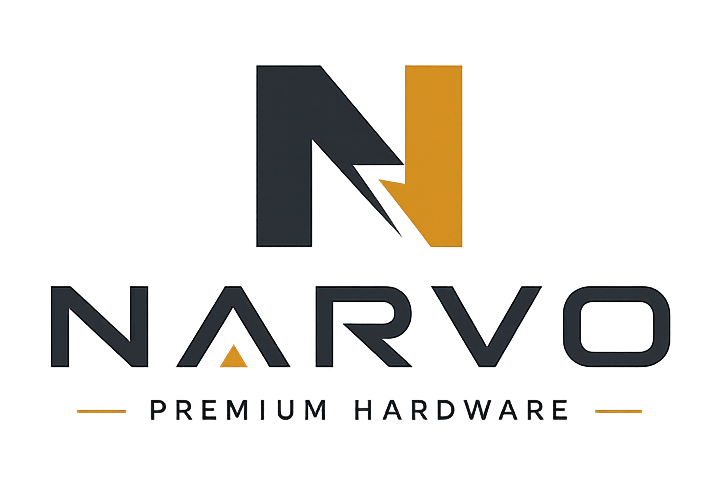
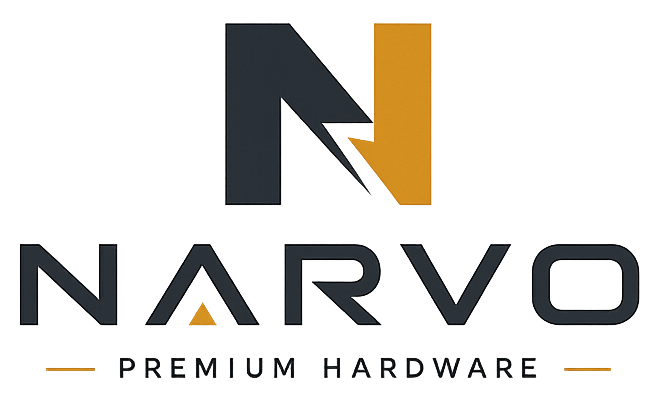
testing satrt

diff --git a/components/Navbar.tsx b/components/Navbar.tsx
@@ -55,7 +55,7 @@ export default function Navbar() {
   const handleSearchSubmit = (e: React.FormEvent) => {
     e.preventDefault();
     if (!searchQuery) return;
-    const match = searchableProducts.find(p => 
+    const match = searchableProducts.find(p =>
       p.name.toLowerCase().includes(searchQuery.toLowerCase())
     );
     if (match) {
@@ -75,14 +75,13 @@ export default function Navbar() {
         initial={{ y: -100, opacity: 0 }}
         animate={{ y: 0, opacity: 1 }}
         transition={{ duration: 0.8, ease: [0.16, 1, 0.3, 1] }}
-        className={`fixed top-0 left-0 right-0 z-50 transition-all duration-350 bg-white/95 backdrop-blur-md border-b border-border-custom shadow-sm ${
-          scrolled ? "py-3" : "py-4.5"
-        }`}
+        className={`fixed top-0 left-0 right-0 z-50 transition-all duration-350 bg-white/95 backdrop-blur-md border-b border-border-custom shadow-sm ${scrolled ? "py-3" : "py-4.5"
+          }`}
       >
         <div className="max-w-7xl mx-auto px-6 md:px-12 flex items-center justify-between">
           {/* Logo */}
           <Link href="/" className="relative z-50 flex items-center">
-            <div className="relative h-14 w-56 md:h-16 md:w-64 transition-transform duration-300 hover:scale-103">
+            <div className="relative h-14 w-56 md:h-20 md:w-80 transition-transform duration-300 hover:scale-103">
               <Image
                 src="/narvo-transparent.png"
                 alt="NARVO Textile & Hardware"